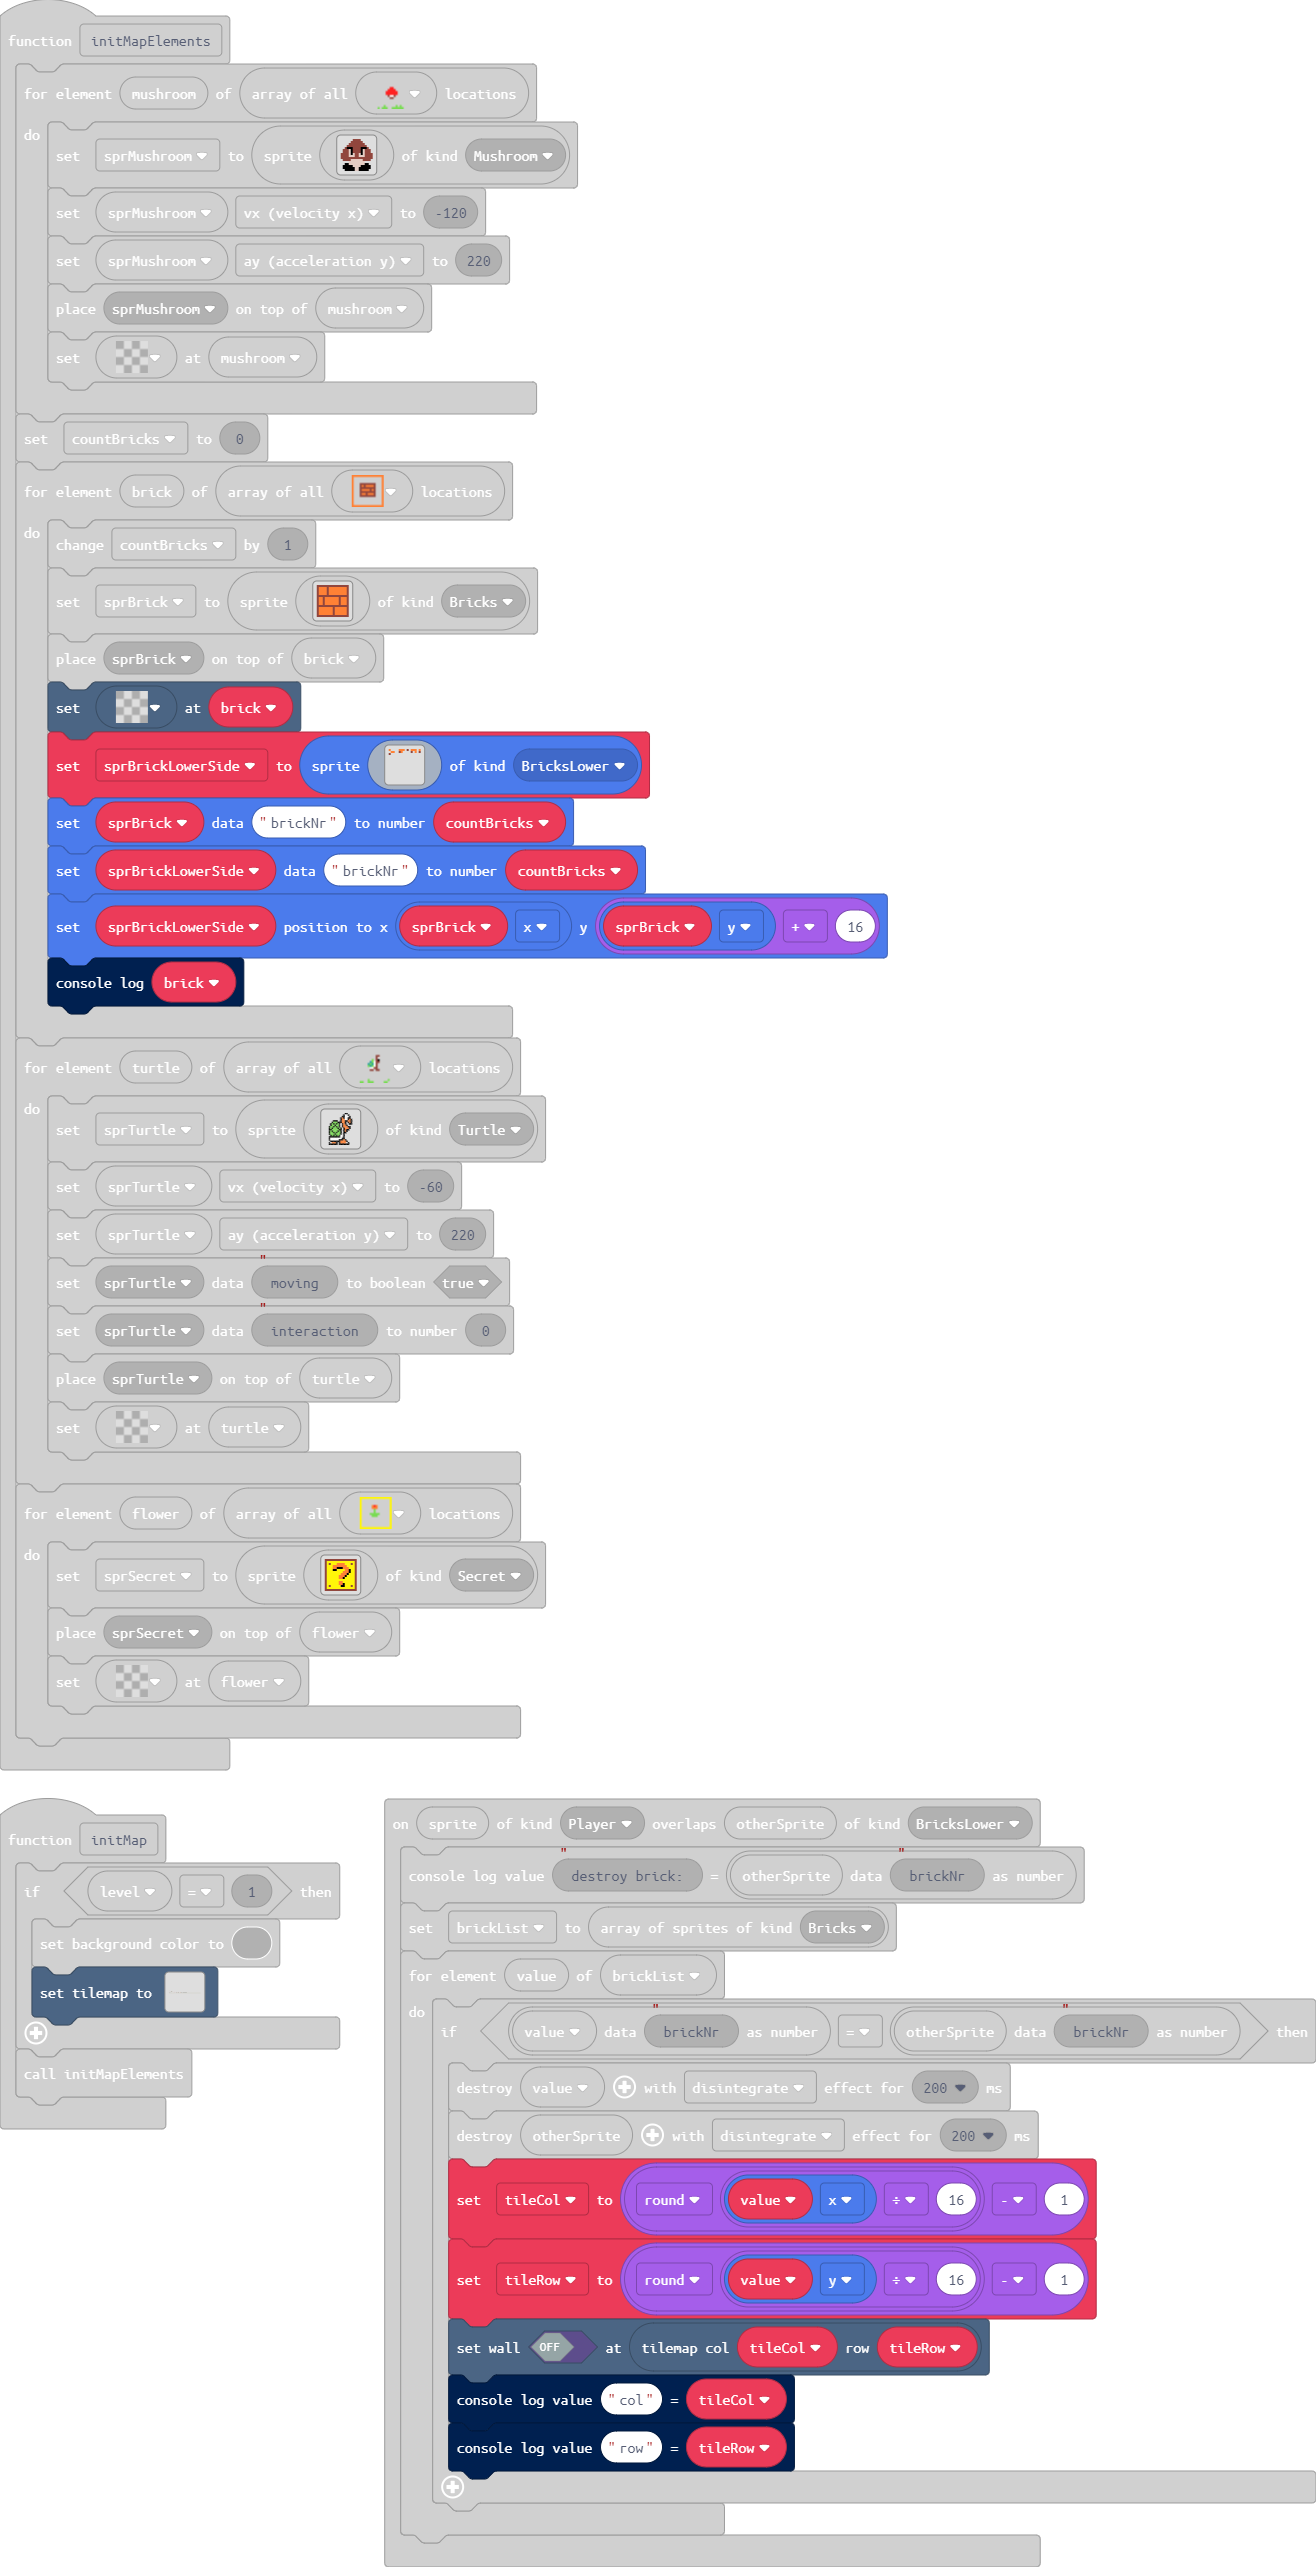
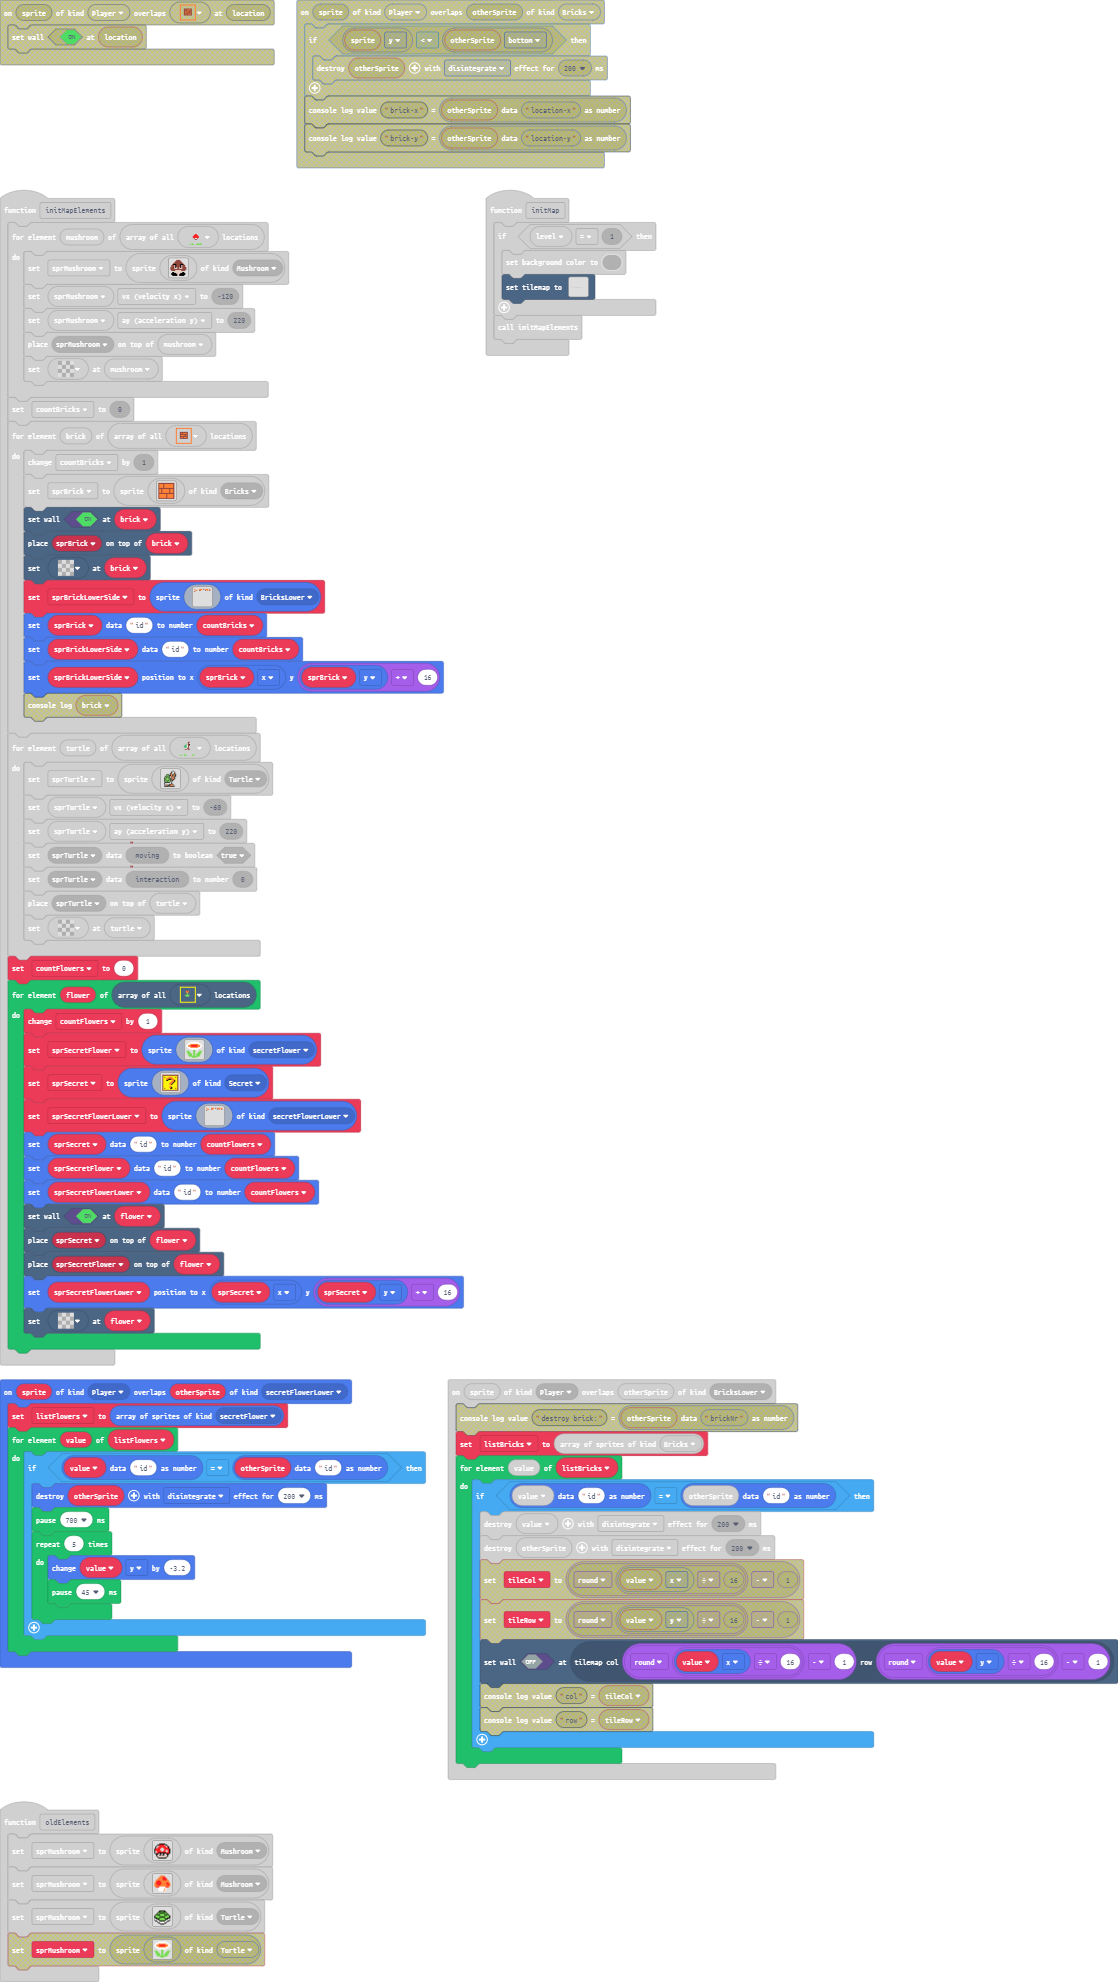
addwd flowers

diff --git a/main.ts b/main.ts
@@ -5,6 +5,8 @@ namespace SpriteKind {
     export const Turtle = SpriteKind.create()
     export const Carapace = SpriteKind.create()
     export const BricksLower = SpriteKind.create()
+    export const secretFlower = SpriteKind.create()
+    export const secretFlowerLower = SpriteKind.create()
 }
 namespace myTiles {
     //% blockIdentity=images._tile
@@ -346,6 +348,7 @@ e 4 4 4 4 4 4 4 e 4 4 4 4 4 4 e
 e 4 4 4 4 4 4 4 e 4 4 4 4 4 4 e 
 e e e e e e e e e e e e e e e e 
 `, SpriteKind.Bricks)
+        tiles.setWallAt(brick, true)
         tiles.placeOnTile(sprBrick, brick)
         tiles.setTileAt(brick, myTiles.tile0)
         sprBrickLowerSide = sprites.create(img`
@@ -366,10 +369,9 @@ e . . . . . . . . . . . . . . .
 . . . . . . . . . . . . . . . . 
 . . . . . . . . . . . . . . . . 
 `, SpriteKind.BricksLower)
-        sprites.setDataNumber(sprBrick, "brickNr", countBricks)
-        sprites.setDataNumber(sprBrickLowerSide, "brickNr", countBricks)
+        sprites.setDataNumber(sprBrick, "id", countBricks)
+        sprites.setDataNumber(sprBrickLowerSide, "id", countBricks)
         sprBrickLowerSide.setPosition(sprBrick.x, sprBrick.y + 16)
-        console.log(brick)
     }
     for (let turtle of tiles.getTilesByType(myTiles.tile11)) {
         sprTurtle = sprites.create(img`
@@ -403,7 +405,27 @@ f f f f f f . f f f f f f f . .
         tiles.placeOnTile(sprTurtle, turtle)
         tiles.setTileAt(turtle, myTiles.tile0)
     }
+    countFlowers = 0
     for (let flower of tiles.getTilesByType(myTiles.tile12)) {
+        countFlowers += 1
+        sprSecretFlower = sprites.create(img`
+. . . . 1 1 1 1 1 1 1 1 . . . . 
+. . 1 1 1 1 1 1 1 1 1 1 1 1 . . 
+. 1 1 1 4 4 4 4 4 4 4 4 1 1 1 . 
+1 1 4 4 4 2 2 2 2 2 2 4 4 4 1 1 
+1 1 4 4 4 2 2 2 2 2 2 4 4 4 1 1 
+. 1 1 1 4 4 4 4 4 4 4 4 1 1 1 . 
+. . 1 1 1 1 1 1 1 1 1 1 1 1 . . 
+. . . . 1 1 1 1 1 1 1 1 . . . . 
+. . . . . . . 7 7 . . . . . . . 
+7 7 7 . . . . 7 7 . . . . 7 7 7 
+. 7 7 7 . . . 7 7 . . . 7 7 7 . 
+. 7 7 7 7 . . 7 7 . . 7 7 7 7 . 
+. . 7 7 7 7 . 7 7 . 7 7 7 7 . . 
+. . 7 7 7 7 . 7 7 . 7 7 7 7 . . 
+. . . 7 7 7 7 7 7 7 7 7 7 . . . 
+. . . . . . 7 7 7 7 . . . . . . 
+`, SpriteKind.secretFlower)
         sprSecret = sprites.create(img`
 e e e e e e e e e e e e e e e e 
 e 5 5 5 5 5 5 5 5 5 5 5 5 5 5 e 
@@ -422,17 +444,34 @@ e 5 e 5 5 5 5 5 f f 5 5 5 e 5 e
 e 5 5 5 5 5 5 5 5 5 5 5 5 5 5 e 
 e e e e e e e e e e e e e e e e 
 `, SpriteKind.Secret)
+        sprSecretFlowerLower = sprites.create(img`
+4 . . . . 4 4 4 . e . 4 4 4 . 4 
+. 4 4 . . e 4 . . . . e . 4 . e 
+e . . . . . . . . . . . . . . . 
+. . . . . . . . . . . . . . . . 
+. . . . . . . . . . . . . . . . 
+. . . . . . . . . . . . . . . . 
+. . . . . . . . . . . . . . . . 
+. . . . . . . . . . . . . . . . 
+. . . . . . . . . . . . . . . . 
+. . . . . . . . . . . . . . . . 
+. . . . . . . . . . . . . . . . 
+. . . . . . . . . . . . . . . . 
+. . . . . . . . . . . . . . . . 
+. . . . . . . . . . . . . . . . 
+. . . . . . . . . . . . . . . . 
+. . . . . . . . . . . . . . . . 
+`, SpriteKind.secretFlowerLower)
+        sprites.setDataNumber(sprSecret, "id", countFlowers)
+        sprites.setDataNumber(sprSecretFlower, "id", countFlowers)
+        sprites.setDataNumber(sprSecretFlowerLower, "id", countFlowers)
+        tiles.setWallAt(flower, true)
         tiles.placeOnTile(sprSecret, flower)
+        tiles.placeOnTile(sprSecretFlower, flower)
+        sprSecretFlowerLower.setPosition(sprSecret.x, sprSecret.y + 16)
         tiles.setTileAt(flower, myTiles.tile0)
     }
 }
-sprites.onOverlap(SpriteKind.Player, SpriteKind.Bricks, function (sprite, otherSprite) {
-    if (sprite.y < otherSprite.bottom) {
-        otherSprite.destroy(effects.disintegrate, 200)
-    }
-    console.logValue("brick-x", sprites.readDataNumber(otherSprite, "location-x"))
-    console.logValue("brick-y", sprites.readDataNumber(otherSprite, "location-y"))
-})
 scene.onHitWall(SpriteKind.Mushroom, function (sprite) {
     if (sprite.isHittingTile(CollisionDirection.Right)) {
         sprite.vx = -100
@@ -441,9 +480,6 @@ scene.onHitWall(SpriteKind.Mushroom, function (sprite) {
         sprite.vx = 100
         flipSprite(sprite)
     }
-})
-scene.onOverlapTile(SpriteKind.Player, myTiles.tile1, function (sprite, location) {
-    tiles.setWallAt(location, true)
 })
 controller.left.onEvent(ControllerButtonEvent.Pressed, function () {
     if (sprites.readDataString(mario, "direction") == "right") {
@@ -462,7 +498,7 @@ function initMap () {
 2 . . . . . . . . . . . . . . . . . . . . . . . . . . . . . . . . . . . . . . . . . . . . . . . . . . . . . . . . . . . . . . . . . . . . . . . . . . . . . . . 
 2 . . . . . . . . . . . . . . . . . . . . . . . . . . . . . . . . . . . . . . . . . . . . . . . . . . . . . . . . . . . . . . . . . . . . . . . . . . . . . . . 
 2 . . . . . . . . . . . . . . . . . . . . . . . . . . . . . . . . . . . . . . . . . . . . . . . . . . . . . . . . . . . . . . . . . . . . . . . . . . . . . . . 
-2 . . . . 2 . 2 . . . . . . 2 . . . . . . . . . . . . . . . . . . . . . . . . . . . . . . . . . . . . . . . . . . . . . . . . . . . . . . . . . . . . . . . . . 
+2 . . . . . . . . . . . . . 2 . . . . . . . . . . . . . . . . . . . . . . . . . . . . . . . . . . . . . . . . . . . . . . . . . . . . . . . . . . . . . . . . . 
 2 . . . . . . . . . . . . 2 2 . . 2 . . . . . . . . . . . . . . . . . . . . . . . . . . . . . . . . . . . . . . . . . . . . . . . . . . . . . . . . . . . . . . 
 2 . . . . . . . . . . . 2 2 2 . . 2 2 . . . 2 . . . . . 2 . . . . . . . . . . . . . . . . . . . . . . . . . . . . . . . . . . . . . . . . . . . . . . . . . . . 
 2 2 2 2 2 2 2 2 2 2 2 2 2 2 2 . . 2 2 2 2 2 2 2 2 2 2 2 2 2 2 2 2 2 2 2 2 2 2 2 2 2 2 2 2 2 2 2 2 2 2 2 2 2 2 2 2 2 2 2 2 2 2 2 2 2 2 2 2 2 2 2 2 2 2 2 2 2 2 2 
@@ -473,6 +509,19 @@ function initMap () {
     }
     initMapElements()
 }
+sprites.onOverlap(SpriteKind.Player, SpriteKind.secretFlowerLower, function (sprite, otherSprite) {
+    listFlowers = sprites.allOfKind(SpriteKind.secretFlower)
+    for (let value of listFlowers) {
+        if (sprites.readDataNumber(value, "id") == sprites.readDataNumber(otherSprite, "id")) {
+            otherSprite.destroy(effects.disintegrate, 200)
+            pause(700)
+            for (let index = 0; index < 5; index++) {
+                value.y += -3.2
+                pause(45)
+            }
+        }
+    }
+})
 function initPlayer () {
     mario = sprites.create(img`
 . . . . 2 2 2 2 2 2 . . . . . . 
@@ -629,24 +678,6 @@ f 1 1 1 f 7 7 7 7 7 7 f 1 1 1 f
 . . . . f f 1 1 1 1 f f . . . . 
 . . . . . . f f f f . . . . . . 
 `, SpriteKind.Turtle)
-    sprMushroom = sprites.create(img`
-. . . . 1 1 1 1 1 1 1 1 . . . . 
-. . 1 1 1 1 1 1 1 1 1 1 1 1 . . 
-. 1 1 1 4 4 4 4 4 4 4 4 1 1 1 . 
-1 1 4 4 4 2 2 2 2 2 2 4 4 4 1 1 
-1 1 4 4 4 2 2 2 2 2 2 4 4 4 1 1 
-. 1 1 1 4 4 4 4 4 4 4 4 1 1 1 . 
-. . 1 1 1 1 1 1 1 1 1 1 1 1 . . 
-. . . . 1 1 1 1 1 1 1 1 . . . . 
-. . . . . . . 7 7 . . . . . . . 
-7 7 7 . . . . 7 7 . . . . 7 7 7 
-. 7 7 7 . . . 7 7 . . . 7 7 7 . 
-. 7 7 7 7 . . 7 7 . . 7 7 7 7 . 
-. . 7 7 7 7 . 7 7 . 7 7 7 7 . . 
-. . 7 7 7 7 . 7 7 . 7 7 7 7 . . 
-. . . 7 7 7 7 7 7 7 7 7 7 . . . 
-. . . . . . 7 7 7 7 . . . . . . 
-`, SpriteKind.Turtle)
 }
 sprites.onOverlap(SpriteKind.Carapace, SpriteKind.Mushroom, function (sprite, otherSprite) {
     if (sprites.readDataBoolean(sprite, "moving")) {
@@ -677,26 +708,23 @@ function marioStarting () {
     sprites.setDataBoolean(mario, "starting", false)
 }
 sprites.onOverlap(SpriteKind.Player, SpriteKind.BricksLower, function (sprite, otherSprite) {
-    console.logValue("destroy brick:", sprites.readDataNumber(otherSprite, "brickNr"))
-    brickList = sprites.allOfKind(SpriteKind.Bricks)
-    for (let value of brickList) {
-        if (sprites.readDataNumber(value, "brickNr") == sprites.readDataNumber(otherSprite, "brickNr")) {
+    listBricks = sprites.allOfKind(SpriteKind.Bricks)
+    for (let value of listBricks) {
+        if (sprites.readDataNumber(value, "id") == sprites.readDataNumber(otherSprite, "id")) {
             value.destroy(effects.disintegrate, 200)
             otherSprite.destroy(effects.disintegrate, 200)
-            tileCol = Math.round(value.x / 16) - 1
-            tileRow = Math.round(value.y / 16) - 1
-            tiles.setWallAt(tiles.getTileLocation(tileCol, tileRow), false)
-            console.logValue("col", tileCol)
-            console.logValue("row", tileRow)
+            tiles.setWallAt(tiles.getTileLocation(Math.round(value.x / 16) - 1, Math.round(value.y / 16) - 1), false)
         }
     }
 })
-let tileRow = 0
-let tileCol = 0
-let brickList: Sprite[] = []
+let listBricks: Sprite[] = []
 let myPicture: Image = null
+let listFlowers: Sprite[] = []
 let mario: Sprite = null
+let sprSecretFlowerLower: Sprite = null
 let sprSecret: Sprite = null
+let sprSecretFlower: Sprite = null
+let countFlowers = 0
 let sprTurtle: Sprite = null
 let sprBrickLowerSide: Sprite = null
 let sprBrick: Sprite = null
